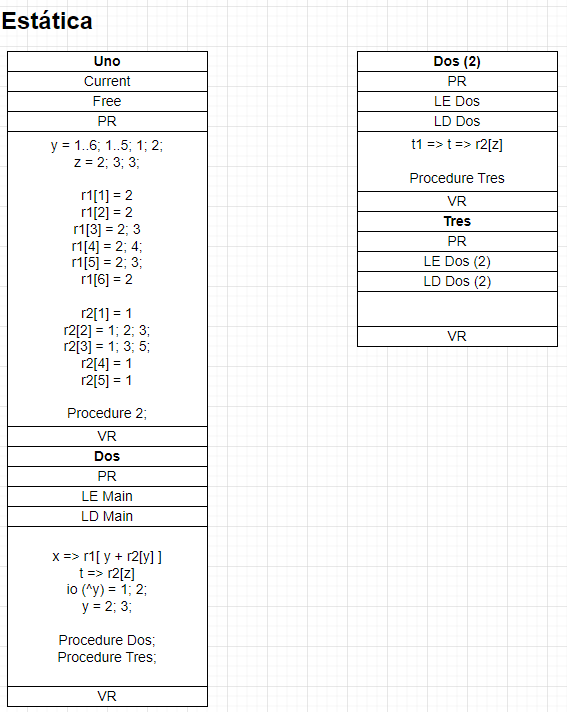
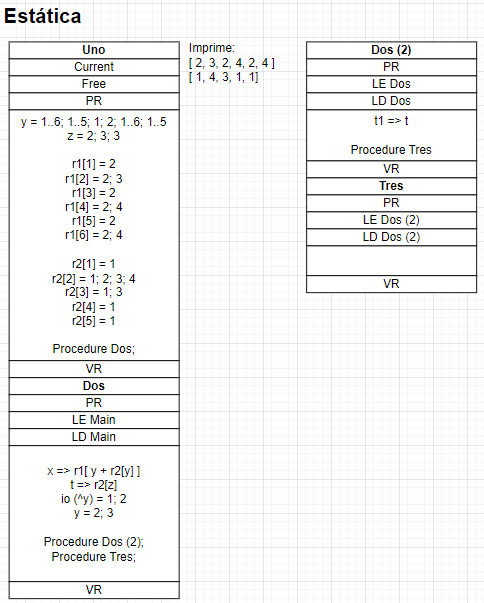
ej8-10 y correccion en ej7

Changed region(s): [[0.0, 0.0, 0.5888, 1.0], [0.6198, 0.0597, 0.9917, 0.5075]]

diff --git a/Practica 6.md b/Practica 6.md
@@ -257,7 +257,119 @@ begin
     for y:= 1 to 5 do write (r2(y));
 end.
 ```
+**ESTE LO HABÍA HECHO MAL PORQUE HABÍA EVALUADO LAS EXPRESIONES POR NOMBRE USANDO LAS VARIABLES LOCALES DE LOS PROCEDIMIENTOS. LAS EXPRESIONES SE EVALÚAN SIEMPRE USANDO LAS VARIABLES DESDE DONDE SE INVOCA AL PROCEDIMIENTO**
 
 <img src="./img/Practica 6/ej7estatica.png">
 
 Las cadenas estáticas y dinámicas son iguales 🤝
+
+# 8.
+## a. Indique las diferencias entre los pasaje de subprogramas como parámetros "deep" y "shallow".
+
+Ni el ChatGPT lo sabe así que no lo voy a buscar 😴
+
+# 9. Sea el siguiente código escrito en Pascal-Like:
+
+```pascal
+Procedure main
+
+    a: array(1..5) of integer;
+    x: integer;
+    i;integer;
+
+    Procedure Uno (tipo_pasaje m:integer)
+    Begin
+        x:=0;
+        x:=x+1;
+        m:=m+x + a(3);
+        x:=x*2;
+        a(3):=a(3) - 1;
+        m:=m+1;
+    End;
+
+Begin
+    For i:=1 to 5 a(i):=1;
+    x:=3;
+    Uno(a(x));
+    For i:=1 to 5 write (a(i));
+End
+```
+
+## a. Plantee diferencias relacionada con la forma de implementación de cada uno y los resultados sobre este ejemplo, considerando los siguientes tipos de parámetros: nombre, referencia y valor-resultado.
+
+* **Nombre:** se va envía como parámetro la expresión `a[x]`. Al ser un parámetro por nombre esta expresión se va a evaluar cada vez que se usa el parámetro; como el valor de `x` cambia a lo largo del programa, se van a modificar diferentes posiciones de `a` en cada uso del parámetro.
+* **Referencia:** se envía como parámetro una referencia a la dirección de memoria de `x[3]`. Al ser un parámetro por referencia los cambios se van a realizar directamente sobre esa variable.
+* **Valor-resultado:** se envía como parámetro el valor actual de `x[3]`. Durante la ejecución del procedimiento se va a utilizar el parámetro como si fuese una variable local; al terminar, se retorna el valor actualizado a `x[3]` en el programa principal.
+
+| Tipo de parámetro | Imprime |
+| ----------------- | --------------- |
+| Nombre | [ 3, 2, 0, 1, 1 ] |
+| Referencia | [ 1, 1, 3, 1, 1 ] |
+| Valor-resultado | [ 1, 1, 4, 1, 1 ] |
+
+En el parámetro por nombre el valor de `x` se cambia internamente en el procedimiento, por lo tanto cambiaría el índice de la expresión `a[x]` al buscar el parámetro real.
+
+El parámetro por referencia está constantemente modificando el valor original de `a[3]`, tanto directamente como a través de la referencia en el parámetro `m`.
+
+El parámetro por valor-resultado toma el valor original de `a[3]` (que era 1), pero no modifica `a[3]` hasta que termina de ejecutarse. Durante el procedimiento se trata a `m` como una variable interna.
+
+## b. ¿Qué sucede si en Uno se agrega la declaración `x: integer`? Indique el resultado para cada uno de los tipos de pasajes de parámetros
+
+Los parámetros por referencia y valor-resultado no tendrían diferencias.
+
+El parámetro por nombre cambiaría porque el procedimiento va a modificar su variable local `x` en cada llamado, pero al evaluar la expresión `a[x]` usaría como índice a la variable `x` del Main.
+
+Usando un parámetro por nombre imprimiría `[ 1, 1, 3, 1, 1 ]`.
+
+# 10. Sea el siguiente programa escrito en Pascal:
+
+```pascal
+Program Uno;
+
+    var x:integer;
+
+    Function Dos:integer;
+    begin
+        x:= x + 1;
+        return (x);
+    end;
+
+    Procedure Tres (pasaje x:integer);
+    begin
+        x:= x + 5;
+        x:= Dos + 10;
+    end;
+
+begin
+    x:= 8; Tres(x);
+    write (x);
+end.
+```
+
+## a. Explique cómo simularía en Pascal el pasaje por valor-resultado y hágalo sobre este ejemplo.
+
+```pascal
+Program Uno;
+    
+    var x: integer;
+
+    Function Dos: integer;
+    begin
+        x := x + 1;
+        return x;
+    end;
+
+    Function Tres (x: integer): integer;
+    begin
+        x := x + 5;
+        x := Dos + 10;
+        return x;
+    end;
+
+begin
+    x := 8; Tres(x);
+    write(x);
+end.
+```
+
+Para simular el pasaje por valor-resultado en Pascal se pueden usar parámetros por valor en un función, y retornar el mismo parámetro modificado.
